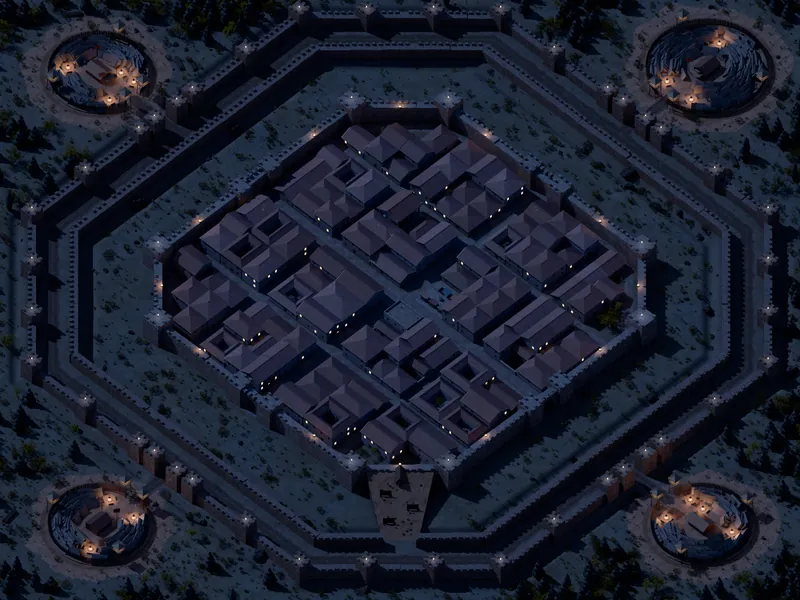
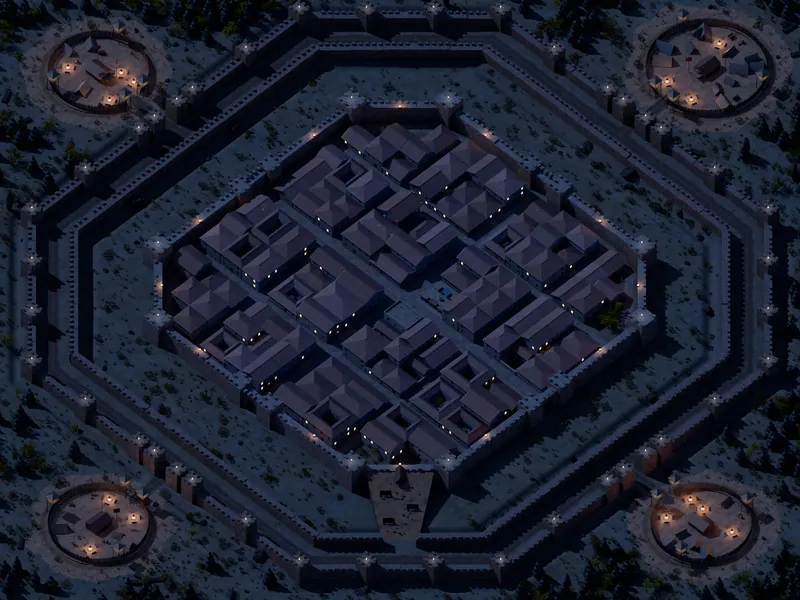
Give the siege camps fewer, larger tents with room between them
Tents now stand in two loose rings round the commander's pavilion, each
with space round it and its door to the middle; stores and racks fill
the gaps. Packed as tightly as before they no longer read as tents.

Claude-Session: https://claude.ai/code/session_017rJoWQA8egkWdB9BLoXRME

diff --git a/world/build_world3d.py b/world/build_world3d.py
@@ -1586,16 +1586,19 @@ if SIEGE:
         for t_ in (.35, .7):
             for s_ in (-1, 1): fire(gate[0] + (cx - gate[0]) * t_ - dy * s_ * 6.5, gate[1] + (cy - gate[1]) * t_ + dx * s_ * 6.5)
         fire(cx - dx * R * .55 + dy * 6, cy - dy * R * .55 - dx * 6)
-        # tents pitched as men would pitch them: in knots round the fires and along the lane, each turned its own way
-        for _ in range(420):
-            a_, d_ = g.uniform(0, 2 * math.pi), R * math.sqrt(g.uniform(.1, .86)); x, y = cx + d_ * math.cos(a_), cy + d_ * math.sin(a_)
-            if math.hypot(x - cx, y - cy) < 8.5 or seg_dist(x, y, *lane[0], *lane[1]) < 3.6: continue
-            r_ = g.random()
-            if r_ < .05:
-                for _ in range(4): put(g.choice((CRATE, SACK, AMPH, PITHOS)), x + g.uniform(-1.6, 1.6), y + g.uniform(-1.4, 1.4), 0, g.uniform(0, 6), 1, r=.3)
-            elif r_ < .07: put(SPEARS, x, y, 0, g.uniform(0, 6.3), 1, r=1.5)
-            elif r_ < .08: put(WOODPILE, x, y, 0, g.uniform(0, 6.3), 1, r=1.4)
-            else: put(g.choice(TENTS), x, y, 0, math.atan2(y - cy, x - cx) + math.pi / 2 + g.uniform(-.2, .2), 1, r=2.1)
+        # tents pitched as men would pitch them: two loose rings round the pavilion, each tent with room round it, its door to the middle;
+        # stores, racks and woodpiles in the gaps
+        placed = 0; limit = 24 if big else 16
+        for ring_r, count in ((R * .5, 9 if big else 7), (R * .8, 15 if big else 11)):
+            for k in range(count):
+                a_ = heading + (k + .5) / count * 2 * math.pi + g.uniform(-.12, .12); d_ = ring_r + g.uniform(-1.2, 1.2)
+                x, y = cx + d_ * math.cos(a_), cy + d_ * math.sin(a_)
+                if seg_dist(x, y, *lane[0], *lane[1]) < 4.5 or placed >= limit: continue
+                r_ = g.random()
+                if r_ < .12:
+                    for _ in range(4): put(g.choice((CRATE, SACK, AMPH, PITHOS)), x + g.uniform(-1.4, 1.4), y + g.uniform(-1.2, 1.2), 0, g.uniform(0, 6), 1, r=.3)
+                elif r_ < .2: put(g.choice((SPEARS, WOODPILE)), x, y, 0, a_ + math.pi / 2, 1, r=1.5)
+                elif put(g.choice(TENTS), x, y, 0, a_ + math.pi + g.uniform(-.15, .15), g.uniform(1.15, 1.3), r=3.2): placed += 1
         put(CART, cx - dx * (R - 5) + dy * 5, cy - dy * (R - 5) - dx * 5, 0, g.uniform(0, 6), 1, r=2)
         put(SPEARS, gate[0] - dx * 5 + dy * 3, gate[1] - dy * 5 - dx * 3, 0, heading, 1, r=1.2)
         take_poly([(cx + (R + 4) * math.cos(a_), cy + (R + 4) * math.sin(a_)) for a_ in (k / 16 * 2 * math.pi for k in range(16))], 0)
